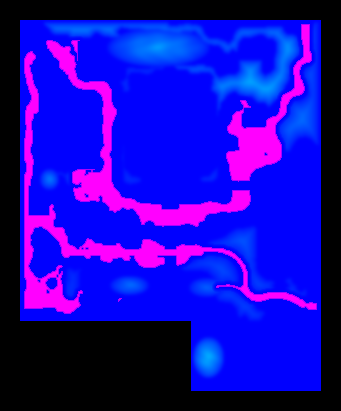
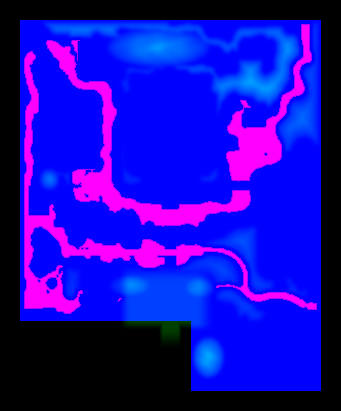
入口高台：正门、翠嶂、出洞平地同在高处，穿石洞后俯看沁芳池，顺石磴下到池边
第十七回“正门五间……下面白石台矶”“进入石洞来……再进数步，渐向北边，平坦宽豁……
俯而视之，则清溪泻雪，石磴穿云，白石为栏，环抱池沿，石桥三港，兽面衔吐。桥上有亭”。

- make_layout.py：入口一带抬成约 6 米高台（西至潇湘馆、东至怡红院路收坡，北面 z 82→63 下到池边），
  翠嶂两翼土山叠在高台上；园墙外垫土台托住墙根，正门外坡道 24 米接街面
- 中轴园路改穿翠嶂模型里原有的石洞；潇湘馆、东路（栊翠庵）两条路随之改线，跨水与穿院结果不变
- 园路坡陡处自动铺石磴（每级约 0.16 米、可踩的台面碰撞），rail 的路（中轴、正门外白石台矶）两侧加白石栏杆
- 沁芳桥两岸池沿加白石栏杆；石洞里不立路灯；出洞往北的取景线不种树
- 园路平整取对称窗口：路端不再被单边平均压低（正门外台阶顶因此能接上门的台基）
- 逐点检查正门外台阶、中轴穿洞下池、潇湘馆、怡红院四条路：无碰撞阻挡，最大单步 0.29 米

Claude-Session: https://claude.ai/code/session_01E2iHKmrj6xPgYJPAfTwDDD

Changed region(s): [[0.3519, 0.6423, 0.6452, 0.8467]]

diff --git a/index.html b/index.html
@@ -285,7 +285,7 @@ function inGarden(x,z,m=0){return (Math.abs(x)<=150-m&&z>=-180+m&&z<=120-m)||(x>
 const SHORE=[];for(let z=-178;z<=188;z+=2)for(let x=-148;x<=148;x+=2){if(!isWet(x,z))continue;let nx=0,nz=0;for(const [a,b] of[[2,0],[-2,0],[0,2],[0,-2]])if(!isWet(x+a,z+b)){nx+=a;nz+=b;}const l=Math.hypot(nx,nz);if(l>0)SHORE.push([x,z,nx/l,nz/l]);}
 /* 山：给布石、种树用的山头（x, z, 高, 半径） */
 const MOUNDS=[[-12,-153,10,22],[80,-129,8,16],[128,-80,6,12],[66,70,5,12],[96,96,4,10],[-112,88,3,8],
- [-41,85,9,12],[36,87,8,11],[38,157,14,14],[-121,-21,9,9]];// 后四座按原著补：翠嶂两翼、“大山阻路”、稻香村前“青山斜阻”（见 tools/layout/make_layout.py）
+ [-41,85,8,12],[30,87,8,9],[38,157,14,14],[-121,-21,9,9]];// 后四座按原著补：翠嶂两翼、“大山阻路”、稻香村前“青山斜阻”（见 tools/layout/make_layout.py）
 function natural(x,z){
  let h=0.6+0.16*Math.sin(x*0.045+1.3)*Math.cos(z*0.05-0.4)+0.08*Math.sin(x*0.13+z*0.11);
  h+=layAt(LAY.h,x,z);
@@ -300,7 +300,7 @@ function height0(x,z){let h=natural(x,z);for(const q of ZL){const dx=Math.max(Ma
 /* path flattening: terrain is benched to a smoothed path grade within the path width, with a 3 m soft shoulder */
 const PFH=new Map();let PF_ON=false;
 function prepPaths(){for(const P of PATHS){const c=new THREE.CatmullRomCurve3(P.pts.map(p=>new V3(p[0],0,p[1])),false,'centripetal');const sp=c.getSpacedPoints(Math.max(6,Math.ceil(c.getLength()/0.8)));const hs=sp.map(v=>height0(v.x,v.z));
- sp.forEach((v,i)=>{if(hs[i]<0.3)return;let a=0,n=0;for(let k=-7;k<=7;k++){const j=i+k;if(j<0||j>=hs.length)continue;a+=hs[j]<0.3?0.95:hs[j];n++;}const key=Math.floor(v.x/4)+','+Math.floor(v.z/4);(PFH.get(key)||PFH.set(key,[]).get(key)).push([v.x,v.z,a/n,P.w/2]);});}PF_ON=true;}
+ sp.forEach((v,i)=>{if(hs[i]<0.3)return;let a=0,n=0;const wk=Math.min(7,i,hs.length-1-i);/* 窗口左右对称：路端（如正门外台阶顶）不被单边平均压低 */for(let k=-wk;k<=wk;k++){const j=i+k;a+=hs[j]<0.3?0.95:hs[j];n++;}const key=Math.floor(v.x/4)+','+Math.floor(v.z/4);(PFH.get(key)||PFH.set(key,[]).get(key)).push([v.x,v.z,a/n,P.w/2]);});}PF_ON=true;}
 function height(x,z){let h=height0(x,z);if(!PF_ON||h<0.3)return h;const ix=Math.floor(x/4),iz=Math.floor(z/4);let best=1e9,bh=0,bw=0;for(let a=-1;a<=1;a++)for(let b=-1;b<=1;b++){const l=PFH.get((ix+a)+','+(iz+b));if(l)for(const q of l){const d2=(q[0]-x)**2+(q[1]-z)**2;if(d2<best){best=d2;bh=q[2];bw=q[3];}}}
  if(best<(bw+3)**2){const d=Math.sqrt(best);h=mix(h,bh,1-sstep(bw+0.2,bw+3,d));}return h;}
 function inZone(x,z,m){for(const q of ZL){if(Math.abs(x-q.x)<q.hw+m&&Math.abs(z-q.z)<q.hd+m)return true;}return false;}
@@ -1030,6 +1030,20 @@ const PATH_S=[];const pathHash=new Map();
 function pathAdd(x,z){const k=Math.floor(x/4)+','+Math.floor(z/4);(pathHash.get(k)||pathHash.set(k,[]).get(k)).push([x,z]);PATH_S.push([x,z]);}
 function nearPath(x,z,r){const ix=Math.floor(x/4),iz=Math.floor(z/4),rr=Math.ceil(r/4);for(let a=-rr;a<=rr;a++)for(let b=-rr;b<=rr;b++){const l=pathHash.get((ix+a)+','+(iz+b));if(l)for(const p of l)if((p[0]-x)**2+(p[1]-z)**2<r*r)return true;}return false;}
 let QINFANG=null;const BRIDGES=[];
+/* 石磴：园路坡陡处铺台阶（第十七回“石磴穿云”）；rail 的路两侧加白石栏杆（“白石为栏”）。
+   台阶面是平的，每级高差约 0.16 米；碰撞按可踩的台面加（walk），两侧望柱挡人。 */
+function stairs(pts,hs,P){const hw=P.w/2+0.15,m=pts.length,tops=new Float32Array(m);let a=0;const runs=[];
+ for(let k=1;k<m;k++)if(Math.abs(hs[k]-hs[a])>=0.16||k===m-1){runs.push([a,k]);a=k;}
+ for(const [a,b] of runs){const p=pts[a],q=pts[b],cx=(p[0]+q[0])/2,cz=(p[1]+q[1])/2,len=Math.hypot(q[0]-p[0],q[1]-p[1])+0.05,ry=Math.atan2(q[0]-p[0],q[1]-p[1]);
+  let top=-1e9,lo=1e9;for(let k=a;k<=b;k++){top=Math.max(top,hs[k]);lo=Math.min(lo,hs[k]);}top+=0.07;const bot=lo-0.4;for(let k=a;k<=b;k++)tops[k]=top;
+  box('stone',T(cx,0,cz,ry),hw*2,top-bot,len,0,(top+bot)/2,0,{noCol:1});colAdd({x:cx,z:cz,c:Math.cos(ry),s:Math.sin(ry),hx:hw,hz:len/2,top,bot,walk:true});}
+ if(!P.rail)return;
+ for(const sd of[-1,1]){const posts=[];let acc=1e9;
+  for(let k=0;k<m;k++){if(k>0)acc+=Math.hypot(pts[k][0]-pts[k-1][0],pts[k][1]-pts[k-1][1]);if(acc<1.6&&k<m-1)continue;acc=0;
+   const b=pts[Math.min(m-1,k+1)],a2=pts[Math.max(0,k-1)];let tx=b[0]-a2[0],tz=b[1]-a2[1];const tl=Math.hypot(tx,tz)||1;posts.push([pts[k][0]-tz/tl*(hw+0.12)*sd,tops[k],pts[k][1]+tx/tl*(hw+0.12)*sd]);}
+  for(let i=0;i<posts.length;i++){const [x,y,z]=posts[i];box('marble',T(x,y,z),0.22,1.05,0.22,0,0.5,0);add('marble',new THREE.SphereGeometry(0.14,10,8),T(x,y+1.12,z));
+   if(i===0)continue;const [x0,y0,z0]=posts[i-1],dx=x-x0,dz=z-z0,dh=Math.hypot(dx,dz),dy=y-y0,sl=Math.hypot(dh,dy),rx=-Math.atan2(dy,dh),M=T((x+x0)/2,0,(z+z0)/2,Math.atan2(dx,dz)),yc=(y+y0)/2;
+   box('marble',M,0.16,0.14,sl,0,yc+0.88,0,{rx,noCol:1});box('marble',M,0.1,0.46,sl,0,yc+0.45,0,{rx,noCol:1});}}}
 function buildPath(P){
  const c=new THREE.CatmullRomCurve3(P.pts.map(p=>new V3(p[0],0,p[1])),false,'centripetal');const L=c.getLength();const sp=c.getSpacedPoints(Math.max(6,Math.ceil(L/0.8))).map(v=>[v.x,v.z]);
  const pos=[],uv=[],nor=[],col=[],idx=[];const hw=P.w/2;let acc=0;const n=sp.length-1;
@@ -1039,7 +1053,17 @@ function buildPath(P){
  const g=new THREE.BufferGeometry();g.setAttribute('position',new THREE.Float32BufferAttribute(pos,3));g.setAttribute('normal',new THREE.Float32BufferAttribute(nor,3));g.setAttribute('uv',new THREE.Float32BufferAttribute(uv,2));g.setAttribute('color',new THREE.Float32BufferAttribute(col,3));g.setIndex(idx);add('path',g,new THREE.Matrix4());
  let run=null,k=0;for(let i=0;i<=n;i++){const wet=height(sp[i][0],sp[i][1])<0.3;if(wet&&run===null)run=i;if((!wet||i===n)&&run!==null){if(i-run>=3){const a=sp[Math.max(0,run-3)],b=sp[Math.min(n,i+2)];bridge(a,b,(P.bridges&&P.bridges[k])||'flat');k++;}run=null;}}
  if(P.lamps){for(let i=12;i<n;i+=30){const p=sp[i],b=sp[Math.min(n,i+1)];let tx=b[0]-p[0],tz=b[1]-p[1];const tl=Math.hypot(tx,tz)||1;const x=p[0]-tz/tl*(hw+0.8),z=p[1]+tx/tl*(hw+0.8);const y=height(x,z);if(y<0.4)continue;
-   box('stone',T(x,y,z),0.5,0.3,0.5,0,0.15,0);cyl('post',T(x,y,z),0.07,0.09,2.5,0,1.4,0,10);box('post',T(x,y,z),0.7,0.08,0.08,0.25,2.6,0,{noCol:1});LANT.push(new V3(x+0.45,y+2.3,z));}}}
+   if(Math.abs(x)<21&&z>86&&z<106)continue;// 翠嶂石洞里不立灯
+   box('stone',T(x,y,z),0.5,0.3,0.5,0,0.15,0);cyl('post',T(x,y,z),0.07,0.09,2.5,0,1.4,0,10);box('post',T(x,y,z),0.7,0.08,0.08,0.25,2.6,0,{noCol:1});LANT.push(new V3(x+0.45,y+2.3,z));}}
+ {const S2=c.getSpacedPoints(Math.max(8,Math.ceil(L/0.2))).map(v=>[v.x,v.z]),m=S2.length,ds=L/(m-1),hs=S2.map(p=>height(p[0],p[1]));
+  const steep=hs.map((h,i)=>{const a=Math.max(0,i-5),b=Math.min(m-1,i+5);return h>0.3&&Math.abs(hs[b]-hs[a])/((b-a)*ds)>0.2;});
+  for(let i=0;i<m;){if(!steep[i]){i++;continue;}let j=i;while(j<m&&steep[j])j++;if((j-i)*ds>=2)stairs(S2.slice(i,j),hs.slice(i,j),P);i=j;}}}
+/* 第十七回“白石为栏，环抱池沿，石桥三港”：沁芳桥两岸池沿一圈白石栏杆（桥头、园路口留开） */
+function pondRail(){if(!QINFANG)return;const qx=QINFANG.x,qz=QINFANG.z;
+ for(const dir of[1,-1]){let prev=null;
+  for(let x=qx-30;x<=qx+30;x+=1.5){let bz=null;for(let k=1;k<=22;k+=0.5){const z=qz+dir*k;if(!isWet(x,z)){bz=z+dir*0.9;break;}}
+   const ok=bz!==null&&Math.abs(x-qx)>4.5&&Math.abs(bz-qz)>3&&!nearPath(x,bz,1.8)&&height(x,bz)<2.2&&height(x,bz)>0.3;
+   if(!ok){prev=null;continue;}if(prev&&Math.hypot(x-prev[0],bz-prev[1])<3.2)balustrade(T(0,0,0),prev[0],prev[1],x,bz,Math.min(height(prev[0],prev[1]),height(x,bz)));prev=[x,bz];}}}
 function bridge(a,b,type){const cx=(a[0]+b[0])/2,cz=(a[1]+b[1])/2,L=Math.hypot(b[0]-a[0],b[1]-a[1])+2,ry=Math.atan2(b[0]-a[0],b[1]-a[1]),M=T(cx,0,cz,ry);BRIDGES.push({x:cx,z:cz,L,ry,type});
  if(type==='arch'){const A=Math.min(2.8,L*0.16),W=3.6,n=18,base=0.75,r=L*0.33;
   for(let i=0;i<n;i++){const s0=i/n,s1=(i+1)/n,z0=-L/2+s0*L,z1=-L/2+s1*L,y0=base+A*Math.sin(Math.PI*s0),y1=base+A*Math.sin(Math.PI*s1),zc=(z0+z1)/2,yc=(y0+y1)/2,dz=z1-z0,dy=y1-y0,sl=Math.hypot(dz,dy)+0.04,rx=-Math.atan2(dy,dz);
@@ -1090,8 +1114,8 @@ function treeOK(x,z,r){const ix=Math.floor(x/5),iz=Math.floor(z/5);for(let a=-1;
 function treeAdd(x,z){const k=Math.floor(x/5)+','+Math.floor(z/5);(treeHash.get(k)||treeHash.set(k,[]).get(k)).push([x,z]);}
 const VIEWSEG=[],VIEWSEG_NEW=[];const NEW_PLACES=new Set(['luxue','tubi','aojing','qiushuang','xingye']);// 新景点的取景线单独放：不参与布树时的提前跳过（那会改变随机数），改为种完后隐藏
 function prepViews(){for(const p of PLACES){if(!p.view)continue;const c=p.view.c,t=p.view.t;(NEW_PLACES.has(p.id)?VIEWSEG_NEW:VIEWSEG).push([c[0],c[2],t[0],t[2],p.id==='all'?0:7]);}
- // 第十七回 出翠嶂“俯而视之，则清溪泻雪，石磴穿云……桥上有亭”：中轴园路翻过翠嶂西翼，山脊上往北望沁芳亭的视线不种树
- VIEWSEG.push([-33,97,2,44,7]);}
+ // 第十七回 出翠嶂“俯而视之，则清溪泻雪，石磴穿云……桥上有亭”：出石洞后口往北望沁芳亭的视线不种树
+ VIEWSEG.push([-13,92,1,44,8]);}
 function inView(x,z,extra,segs){for(const v of segs||VIEWSEG){if(!v[4])continue;const dx=v[2]-v[0],dz=v[3]-v[1],L2=dx*dx+dz*dz;let u=((x-v[0])*dx+(z-v[1])*dz)/L2;if(u<0.15||u>0.92)continue;const px=v[0]+dx*u,pz=v[1]+dz*u;const r=v[4]+(extra||0);if((px-x)**2+(pz-z)**2<r*r)return true;}return false;}
 // 新景点（芦雪广、凹晶馆、凸碧山庄）占地：x, z, 半宽, 半深
 const SITE_FP=GLB?[[-131.5,0,8.5,13],[83,-83,8,8],[80,-129,9.5,9]]:[];
@@ -1125,7 +1149,7 @@ function buildTown(){const rr=mulberry32(909);let n=0;
  for(let x=-262;x<=262;x+=16)for(let z=-270;z<=274;z+=14){if(inGarden(x,z,-13))continue;if(Math.abs(x)>252||z<-262||z>266)continue;if(Math.abs(x)<10&&z>120)continue;if(rr()<0.4)continue;
   const inT=Math.abs(x)<166&&z>-196&&z<206;const y=inT?height(x,z):0.36;if(inT&&y<0.45)continue;house(x+(rr()-0.5)*3,y,z+(rr()-0.5)*3);}
  // a paved lane from the gate northward through the town
- for(let z=124;z<=214;z+=2.9)box('pave',T(0,0.38,z),5.2,0.1,3,0,0,0,{noCol:1});
+ for(let z=152;z<=214;z+=2.9)box('pave',T(0,0.38,z),5.2,0.1,3,0,0,0,{noCol:1});// 正门在高台上，门外先是白石台矶（PATHS），再接街面
  console.log('town houses',n);}
 // 翠嶂：GLB 模式用 Blender 精模（models/b/cuizhang.wasm，源 blender/cuizhang.blend）。
 // 下面仍照旧消耗随机数（rock() 每次 3 个），保证园中其余随机布置不变。
@@ -1138,7 +1162,7 @@ function buildRockery(){const cz=GLB,burn=()=>{rnd();rnd();rnd();};
   const [px,pz,pt]=CZ_PINES[i];TREES.pine.push({x:px,y:height(0,96)-0.05+pt,z:pz,s:0.6,ry:ok?rnd()*6.283:i*2.1,tint:'#3f5a3c',plum:false,v:ok?Math.floor(rnd()*2):i%2});treeAdd(px,pz);});
  for(const m of MOUNDS){const n=8+Math.floor(rnd()*8);for(let i=0;i<n;i++){const a=rnd()*6.28,r=R(1,m[3]*0.55),x=m[0]+Math.cos(a)*r,z=m[1]+Math.sin(a)*r;if(nearPath(x,z,2)||inZone(x,z,1)||height(x,z)<0.5)continue;const sx=R(1.2,3.2),sy=R(1.0,3.0);rock(x,height(x,z)+sy*0.3,z,sx,sy,R(1,2.4),pick(['#8e8f86','#9a9a90','#7f8078','#a09e94']));}}
  // 按原著补的几座山坡陡，满坡撒山石，免得一整面光坡（x, z, 半径 rx, rz, 块数；同 make_layout.py 的 EXTRA_HILLS）
- for(const [cx,cz,rx,rz,k] of[[-41,85,20,10,26],[36,87,18,10,22],[38,157,16,21,46],[-121,-21,10,11,22]])for(let i=0;i<k;i++){const a=rnd()*6.28,d=R(0.25,0.95),x=cx+Math.cos(a)*rx*d,z=cz+Math.sin(a)*rz*d;if(nearPath(x,z,2)||inZone(x,z,1)||!inGarden(x,z,2)||height(x,z)<1.2)continue;const sx=R(1.4,3.8),sy=R(1.2,3.4);rock(x,height(x,z)+sy*0.25,z,sx,sy,R(1.2,2.8),pick(['#8e8f86','#9a9a90','#7f8078','#a09e94']));}}
+ for(const [cx,cz,rx,rz,k] of[[-41,85,20,10,26],[30,87,15,10,18],[38,157,16,21,46],[-121,-21,10,11,22]])for(let i=0;i<k;i++){const a=rnd()*6.28,d=R(0.25,0.95),x=cx+Math.cos(a)*rx*d,z=cz+Math.sin(a)*rz*d;if(nearPath(x,z,2)||inZone(x,z,1)||!inGarden(x,z,2)||height(x,z)<1.2)continue;const sx=R(1.4,3.8),sy=R(1.2,3.4);rock(x,height(x,z)+sy*0.25,z,sx,sy,R(1.2,2.8),pick(['#8e8f86','#9a9a90','#7f8078','#a09e94']));}}
 function buildDaguan(){const y=Z.daguan.y,M=T(0,y,-90,0);if(!GLB){
  box('marble',M,48,4.5,24,0,1.5-2.25,0,{ao:(yy)=>0.7+0.3*sstep(-0.5,1.5,yy)});for(let i=0;i<5;i++)box('marble',M,12,1.5*(5-i)/5,0.6,0,1.5*(5-i)/10,12+0.3+i*0.6);
  box('marble',M,1.6,0.9,3.2,-6.8,0.45,13.2);box('marble',M,1.6,0.9,3.2,6.8,0.45,13.2);
@@ -1962,10 +1986,10 @@ function frame(){
    ===================================================================== */
 /* 园路：tools/layout/paths.json（python3 tools/layout/check_paths.py 检查跨水与穿院）。跨水处自动架桥，bridges 依次指定桥型 */
 const PATHS=[
- {pts:[[0,113],[-14,108],[-26,100],[-28,88],[-18,76],[-6,68],[0,60],[0,44],[0,32],[0,14],[0,-4],[0,-20],[0,-37]],w:3,bridges:['qinfang','arch'],lamps:true}, // 中轴
- {pts:[[-26,100],[-40,96],[-52,94]],w:2.4}, // 潇湘馆
+ {pts:[[0,113],[-3,109],[-5,105],[-5.6,101],[-7.4,98.2],[-8.6,95.4],[-8,92.6],[-9.4,90],[-10.2,87],[-10,82],[-7,75],[-3,67],[0,60],[0,44],[0,32],[0,14],[0,-4],[0,-20],[0,-37]],w:3,bridges:['qinfang','arch'],lamps:true,rail:true}, // 中轴
+ {pts:[[-3,109],[-16,107],[-30,103],[-42,99],[-52,94]],w:2.4}, // 潇湘馆
  {pts:[[0,113],[14,110],[30,112],[44,120],[56,138],[66,156],[76,158.5],[83,158.5]],w:2.6,lamps:true}, // 怡红院
- {pts:[[30,112],[36,98],[42,84],[44,70],[42,58],[40,44],[50,40],[66,42],[80,47],[88,47]],w:2.4}, // 东路·栊翠庵
+ {pts:[[44,120],[46,106],[45,94],[43,84],[43,72],[42,58],[40,44],[50,40],[66,42],[80,47],[88,47]],w:2.4}, // 东路·栊翠庵
  {pts:[[50,40],[62,26],[82,18],[100,8],[114,-12],[118,-40],[118,-70],[110,-92],[96,-100],[86,-94]],w:2.2}, // 东路·凹晶馆
  {pts:[[-30,34],[-56,37],[-72,36],[-86,36],[-100,35],[-108,28],[-109,14],[-108,2],[-118,0]],w:2.2}, // 西路·芦雪广
  {pts:[[-48,-40],[-46,-90],[-40,-112],[-20,-120],[20,-120],[44,-110],[50,-80],[48,-40]],w:2.2}, // 大观楼后
@@ -1977,12 +2001,13 @@ const PATHS=[
  {pts:[[-70,-124],[-54,-122],[-40,-112]],w:2.2}, // 蘅芜苑东
  {pts:[[0,-20],[24,-22],[46,-14],[60,-4],[76,6],[82,18]],w:2.4}, // 沁芳闸
  {pts:[[-86,36],[-86,33.5]],w:2.2}, // 秋爽斋门
- {pts:[[-108.5,24],[-111.5,21]],w:2} // 荇叶渚
+ {pts:[[-108.5,24],[-111.5,21]],w:2}, // 荇叶渚
+ {pts:[[0,151],[0,126]],w:5.2,rail:true} // 正门外白石台矶
 ];
 const tick=(msg)=>new Promise(r=>{loadStep.textContent=tr(msg);requestAnimationFrame(()=>setTimeout(r,0));});
 async function build(){
  await tick('堆山凿池');prepPaths();prepViews();buildTerrain();buildWater();
- await tick('铺石子路，架桥');for(const P of PATHS)buildPath(P);
+ await tick('铺石子路，架桥');for(const P of PATHS)buildPath(P);pondRail();
  await tick('起楼阁，砌粉墙');buildGate();buildRockery();try{buildTown();}catch(e){console.warn('town',e);}buildDaguan();buildYihong();
  await tick('修馆舍，筑茅屋');buildXiaoxiang();buildQiushuang();buildHengwu();buildDaoxiang();buildLongcui();buildOuxiang();
  if(QINFANG){const q=PLACES.find(p=>p.id==='qinfang');q.pos=[QINFANG.x,9,QINFANG.z];q.view={t:[QINFANG.x,2,QINFANG.z],c:[QINFANG.x-26,11,QINFANG.z+22]};q.spawn=[QINFANG.x-3,QINFANG.z+14,0];CHIMES.push(new V3(QINFANG.x,4,QINFANG.z));}

diff --git a/tools/layout/make_layout.py b/tools/layout/make_layout.py
@@ -70,8 +70,8 @@ for i in range(1, n + 1):
 EXTRA_HILLS = [(-12, -153, 52, 20, 15.0),
 # 以下按原著补的山（院落占地 + 8 米过渡带内会被网页端压平，所以都放在占地之外）
 # 第十七回 进门“只见一带翠嶂挡在前面”：翠嶂石山（模型在 x ±20）两翼接土山，连成一带；
-#   中轴园路从石山与西翼之间的山坳穿过（“其中微露羊肠小径”），坳口上“俯而视之”，往北正好望见沁芳亭、石桥
-    (-41, 85, 20, 10, 11.0), (36, 87, 18, 10, 10.0),
+#   两翼坐在下面的入口高台上（高度叠加），中轴园路穿翠嶂石洞过去
+    (-41, 85, 20, 10, 8.0), (30, 87, 15, 10, 8.0),
 # 第十七回 出怡红院往回走“忽见大山阻路，众人都道迷了路了”，“由山脚边忽一转”就是大门前大路
     (38, 157, 16, 21, 19.0),
 # 第十七回 往稻香村“倏尔青山斜阻，转过山怀中，隐隐露出一带黄泥筑就矮墙”；
@@ -82,7 +82,18 @@ RUG = 0.82 + 0.18 * (0.5 + 0.5 * np.sin(XX * 0.21 + np.cos(ZZ * 0.17) * 2.0) * n
 for cx, cz, rx, rz, pk in EXTRA_HILLS:
     e = np.hypot((XX - cx) / rx, (ZZ - cz) / rz)
     Hs = np.maximum(Hs, pk * np.clip(1 - e, 0, 1) ** 0.6 * RUG * garden)
-H = nd.gaussian_filter(Hs, 1.5) * np.clip((-sd - 1) / 4, 0, 1)
+# 入口高台：第十七回“只见正门五间……下面白石台矶”，进门“一带翠嶂挡在前面”，“进入石洞来……再进数步，
+#   渐向北边，平坦宽豁……俯而视之，则清溪泻雪，石磴穿云，白石为栏，环抱池沿，石桥三港，兽面衔吐。桥上有亭”。
+#   正门、翠嶂、出洞后的平地同在一层高台上，沁芳池在低处：出洞即可俯看，再顺石磴下到池边。
+#   园墙外接一道土台托住墙根；正门外顺“白石台矶”下到街面。
+PLAT = 6.0
+def ss(a, b, v): t = np.clip((v - a) / (b - a), 0, 1); return t * t * (3 - 2 * t)
+ax = ss(-52, -40, XX) * (1 - ss(26, 44, XX))                         # 东西两头收坡（西至潇湘馆，东至怡红院路）
+inner_pl = ax * ss(63, 82, ZZ) * np.where(XX > 20.6, 1 - ss(122, 132, ZZ), 1.0)   # 北面 z 82→63 下到池边
+outer_pl = np.maximum(ax * (1 - ss(120, 130, ZZ)),                    # 墙外土台
+                      (1 - ss(7, 12, np.abs(XX))) * (1 - ss(126, 150, ZZ)))         # 正门外台阶坡
+PL = PLAT * np.where(garden, inner_pl, np.where((ZZ > 119) & (XX < 20.6), outer_pl, 0.0))
+H = (nd.gaussian_filter(Hs, 1.5) + PL) * np.clip((-sd - 1) / 4, 0, 1)
 
 img = np.zeros((NZ, NX, 3), np.uint8)
 img[..., 0] = np.round(W * 255); img[..., 1] = np.round(H / HILL_MAX * 255); img[..., 2] = garden * 255
